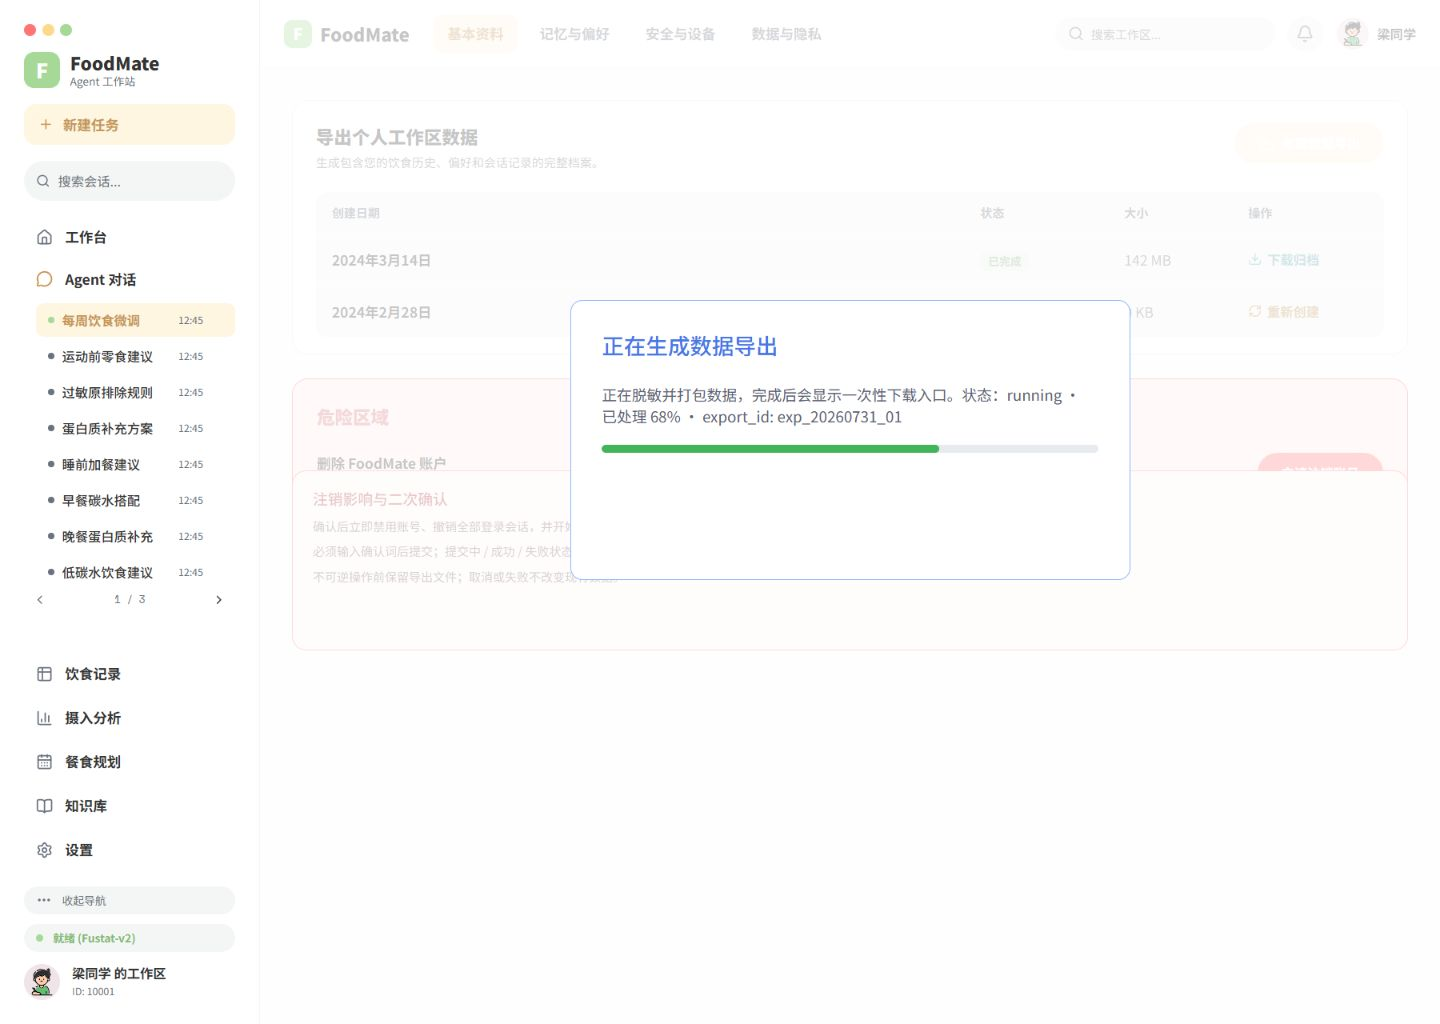
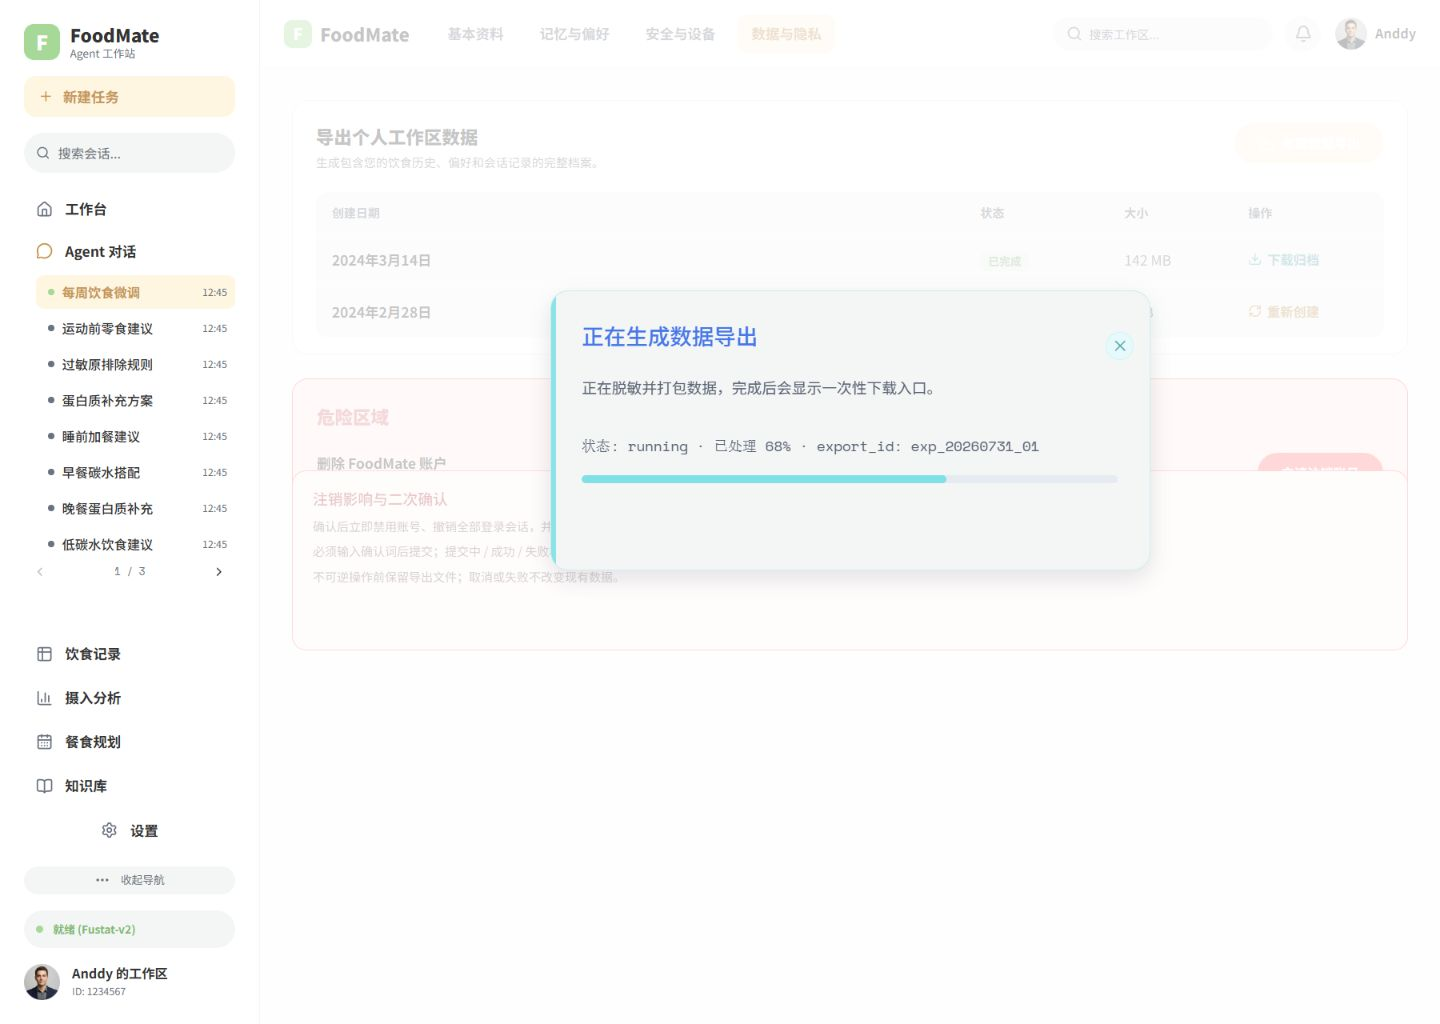
fix(个人中心): 对齐数据导出进行中状态

diff --git a/foodmate-ui/src/pages/ProfilePage/ProfilePage.tsx b/foodmate-ui/src/pages/ProfilePage/ProfilePage.tsx
@@ -338,7 +338,7 @@ function ProfileFixtureOverlay({ state, onDismiss }: { state: ProfileFixtureStat
                 : state === 'privacy-export-queued'
                   ? '任务已创建，后台整理完成后提供一次性下载。状态: queued · 预计等待 1-2 分钟 · export_id: exp_20260731_01'
                   : state === 'privacy-export-running'
-                    ? '正在脱敏并打包数据，完成后会显示一次性下载入口。状态：running · 已处理 68% · export_id: exp_20260731_01'
+                    ? '正在脱敏并打包数据，完成后会显示一次性下载入口。状态: running · 已处理 68% · export_id: exp_20260731_01'
                     : state === 'privacy-export-expired'
                       ? '下载链接已过期，请重新创建导出任务。状态：expired · export_id: exp_20260729_18'
                       : state === 'privacy-deletion-submitting'
@@ -358,6 +358,7 @@ function ProfileFixtureOverlay({ state, onDismiss }: { state: ProfileFixtureStat
   const isLogoutConfirmation = state === 'security-logout-confirm';
   const isDeleteConfirmation = state === 'privacy-delete-confirm';
   const isExportQueued = state === 'privacy-export-queued';
+  const isExportRunning = state === 'privacy-export-running';
   return (
     <div
       className={cn(
@@ -366,6 +367,7 @@ function ProfileFixtureOverlay({ state, onDismiss }: { state: ProfileFixtureStat
         isLogoutConfirmation ? styles.fixtureOverlayLogout : undefined,
         isDeleteConfirmation ? styles.fixtureOverlayDelete : undefined,
         isExportQueued ? styles.fixtureOverlayExportQueued : undefined,
+        isExportRunning ? styles.fixtureOverlayExportRunning : undefined,
       )}
       role="presentation"
     >
@@ -376,11 +378,25 @@ function ProfileFixtureOverlay({ state, onDismiss }: { state: ProfileFixtureStat
           isLogoutConfirmation ? styles.fixtureModalLogout : undefined,
           isDeleteConfirmation ? styles.fixtureModalDelete : undefined,
           isExportQueued ? styles.fixtureModalExportQueued : undefined,
+          isExportRunning ? styles.fixtureModalExportRunning : undefined,
         )}
         role="alert"
         aria-live="polite"
       >
-        {isExportQueued ? (
+        {isExportRunning ? (
+          <>
+            <span className={styles.fixtureExportRunningAccent} aria-hidden="true" />
+            <h2 className={styles.fixtureExportRunningTitle}>{title}</h2>
+            <p className={styles.fixtureExportRunningDetail}>正在脱敏并打包数据，完成后会显示一次性下载入口。</p>
+            <p className={styles.fixtureExportRunningStatus}>状态: running · 已处理 68% · export_id: exp_20260731_01</p>
+            <span className={styles.fixtureExportRunningProgress} aria-label="数据导出进度 68%">
+              <i />
+            </span>
+            <Button className={styles.fixtureExportQueuedClose} variant="ghost" aria-label="关闭" onClick={onDismiss}>
+              <X aria-hidden="true" />
+            </Button>
+          </>
+        ) : isExportQueued ? (
           <>
             <span className={styles.fixtureExportQueuedAccent} aria-hidden="true" />
             <h2 className={styles.fixtureExportQueuedTitle}>{title}</h2>

diff --git a/foodmate-ui/src/pages/ProfilePage/ProfilePage.module.css b/foodmate-ui/src/pages/ProfilePage/ProfilePage.module.css
@@ -1611,6 +1611,11 @@
   background: rgb(255 255 255 / 72%);
 }
 
+.fixtureOverlayExportRunning {
+  inset: 0 0 0 260px;
+  background: rgb(255 255 255 / 72%);
+}
+
 .fixtureModal {
   position: absolute;
   top: 300px;
@@ -1659,6 +1664,21 @@
   left: 290px;
   width: 600px;
   height: 260px;
+  min-height: 0;
+  padding: 0;
+  border-color: rgb(128 224 230 / 34%);
+  border-radius: 18px;
+  background: #f4f6f5;
+  box-shadow: 0 8px 22px rgb(26 33 46 / 12%);
+  overflow: hidden;
+  transform: none;
+}
+
+.fixtureModalExportRunning {
+  top: 290px;
+  left: 290px;
+  width: 600px;
+  height: 280px;
   min-height: 0;
   padding: 0;
   border-color: rgb(128 224 230 / 34%);
@@ -1885,6 +1905,7 @@
 
 .fixtureModal p.fixtureExportQueuedDetail {
   top: 85px;
+  margin: 0;
   color: rgb(107 114 128 / 86%);
   font-size: 15px;
   line-height: 22px;
@@ -1892,6 +1913,7 @@
 
 .fixtureModal p.fixtureExportQueuedStatus {
   top: 149px;
+  margin: 0;
   color: rgb(93 169 178 / 72%);
   font-family: var(--font-mono);
   font-size: 14px;
@@ -1925,6 +1947,70 @@
 .fixtureExportQueuedClose svg {
   width: 18px;
   height: 18px;
+}
+
+.fixtureExportRunningAccent {
+  position: absolute;
+  top: -1px;
+  left: -1px;
+  width: 6px;
+  height: 280px;
+  border-radius: 3px;
+  background: rgb(128 224 230 / 90%);
+}
+
+.fixtureExportRunningTitle,
+.fixtureExportRunningDetail,
+.fixtureExportRunningStatus {
+  position: absolute;
+  left: 31px;
+  width: 520px;
+  margin: 0;
+  color: #333;
+  font-family: var(--font-ui);
+  font-weight: 400;
+  text-align: left;
+}
+
+.fixtureModal h2.fixtureExportRunningTitle {
+  top: 31px;
+  font-size: 22px;
+  line-height: 28px;
+}
+
+.fixtureModal p.fixtureExportRunningDetail {
+  top: 85px;
+  margin: 0;
+  font-size: 15px;
+  line-height: 22px;
+}
+
+.fixtureModal p.fixtureExportRunningStatus {
+  top: 144px;
+  margin: 0;
+  font-family: var(--font-mono);
+  font-size: 14px;
+  line-height: 22px;
+}
+
+.fixtureExportRunningProgress {
+  position: absolute;
+  top: 184px;
+  left: 31px;
+  display: block;
+  width: 536px;
+  height: 8px;
+  overflow: hidden;
+  border-radius: 4px;
+  background: #e5ebf0;
+}
+
+.fixtureExportRunningProgress i {
+  display: block;
+  width: 68%;
+  height: 100%;
+  border-radius: inherit;
+  background: #80e0e6;
 }
 
 .fixtureLogoutActions {
@@ -2086,6 +2172,16 @@
     height: 260px;
     transform: translateY(-50%);
   }
+  .fixtureOverlayExportRunning {
+    inset: 0;
+  }
+  .fixtureModalExportRunning {
+    top: 50%;
+    left: 16px;
+    width: calc(100% - 32px);
+    height: 280px;
+    transform: translateY(-50%);
+  }
   .fixtureLogoutEyebrow,
   .fixtureLogoutTitle,
   .fixtureLogoutDetail,
@@ -2149,6 +2245,20 @@
   .fixtureExportQueuedClose {
     right: 13px;
     left: auto;
+  }
+  .fixtureExportRunningTitle,
+  .fixtureExportRunningDetail,
+  .fixtureExportRunningStatus {
+    left: 24px;
+    width: calc(100% - 48px);
+  }
+  .fixtureExportRunningStatus {
+    line-height: 20px;
+  }
+  .fixtureExportRunningProgress {
+    left: 24px;
+    top: 196px;
+    width: calc(100% - 48px);
   }
   .fixturePanel {
     inset: 0;

diff --git a/foodmate-ui/src/pages/ProfilePage/ProfilePage.test.tsx b/foodmate-ui/src/pages/ProfilePage/ProfilePage.test.tsx
@@ -125,6 +125,27 @@ describe('ProfilePage', () => {
     expect(screen.queryByRole('heading', { name: '数据导出已排队' })).not.toBeInTheDocument();
   });
 
+  it('renders and dismisses the Figma export running fixture', async () => {
+    const user = userEvent.setup();
+    renderPage('/profile?state=privacy-export-running');
+
+    expect(screen.getByRole('heading', { name: '正在生成数据导出' })).toBeInTheDocument();
+    expect(screen.getByText('正在脱敏并打包数据，完成后会显示一次性下载入口。')).toBeInTheDocument();
+    expect(screen.getByText('状态: running · 已处理 68% · export_id: exp_20260731_01')).toBeInTheDocument();
+    expect(screen.getByLabelText('数据导出进度 68%')).toBeInTheDocument();
+    expect(screen.getByRole('button', { name: '关闭' })).toBeInTheDocument();
+    expect(screen.queryByText('状态：running')).not.toBeInTheDocument();
+
+    const status = screen.getByText('状态: running · 已处理 68% · export_id: exp_20260731_01');
+    const progress = screen.getByLabelText('数据导出进度 68%');
+    expect(status).not.toHaveStyle({ marginTop: '24px' });
+    expect(progress).toHaveAttribute('aria-label', '数据导出进度 68%');
+
+    await user.click(screen.getByRole('button', { name: '关闭' }));
+
+    expect(screen.queryByRole('heading', { name: '正在生成数据导出' })).not.toBeInTheDocument();
+  });
+
   it('edits profile fields and manages allergens before saving', async () => {
     const user = userEvent.setup();
     renderPage('/profile');
